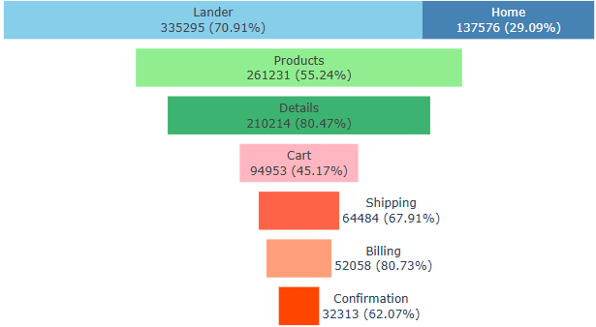
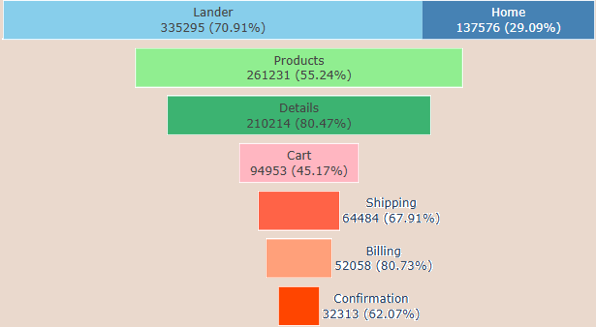
Try

diff --git a/script.js b/script.js
@@ -30,29 +30,25 @@ document.addEventListener('DOMContentLoaded', () => {
         ],
         Python: [
             {
-                title: 'Cohort Retention',
-                description: 'Monthly retention curves using pandas and matplotlib.',
-                chartPlaceholder: '[Python cohort plot]'
+                title: 'Customer Segmentation',
+                description: 'Using silhouette and K.',
+                chartPlaceholder: '<img src="Segmentation.png">'
             },
             {
-                title: 'A/B Test Results',
-                description: 'Statistical significance testing with scipy.',
-                chartPlaceholder: '[Python A/B plot]'
+                title: 'Prospensity Model',
+                description: 'Monthly retention curves using pandas and matplotlib.',
+                chartPlaceholder: '<img src="Decile.png">'
             }
         ],
         SQL: [
-            {
-                title: 'Customer Segmentation',
-                description: 'RFM analysis using window functions.',
-                chartPlaceholder: '<img src="Funnel Analysis.png">'
-            },
+
             {
                 title: 'Funnel Analysis',
                 description: 'Conversion funnel built with CTEs and aggregations.',
                 chartPlaceholder: '[SQL funnel]'
             },
             {
-                title: 'Simple Table',
+                title: 'Cohort Analysis',
                 description: 'Basic aggregation and filtering examples.',
                 chartPlaceholder: '[SQL table]'
             }